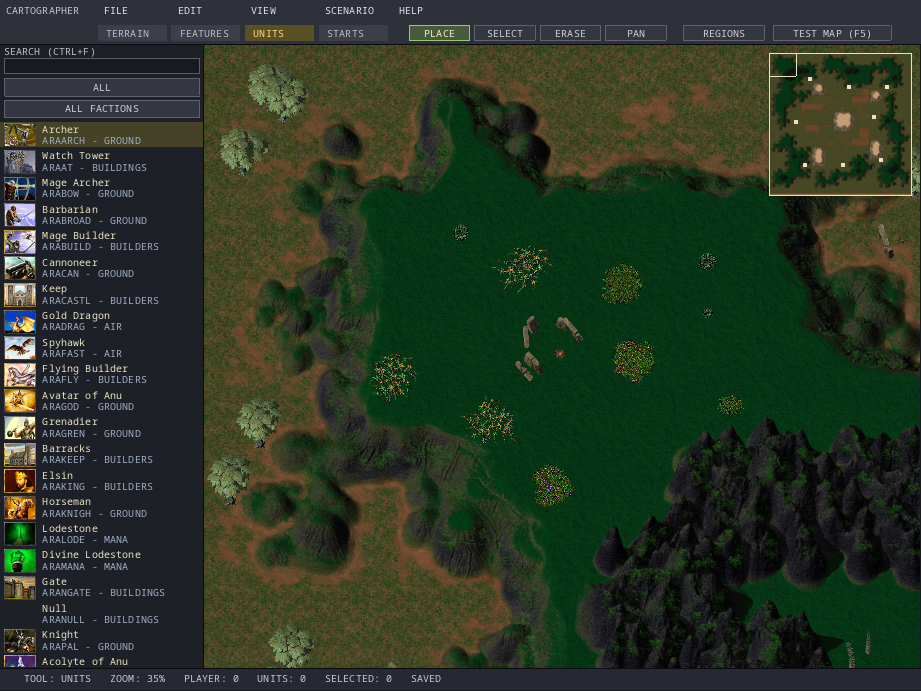
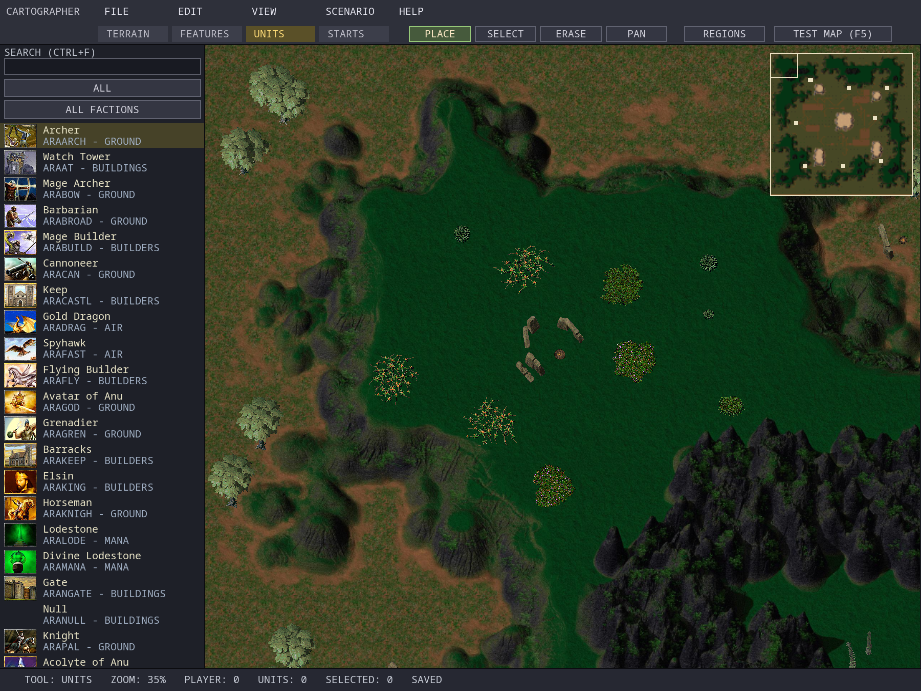
Release 0.7.13 with Cartographer workflow improvements and validated sweeps

diff --git a/README.md b/README.md
@@ -6,7 +6,7 @@
 
 A clean-room C++20 / SDL2 recreation of Cavedog's 1999 fantasy RTS.
 
-[![version](https://img.shields.io/badge/version-0.7.12-c9a227?style=flat-square)](https://github.com/pocketgeek/tak-engine/releases)
+[![version](https://img.shields.io/badge/version-0.7.13-c9a227?style=flat-square)](https://github.com/pocketgeek/tak-engine/releases)
 [![platforms](https://img.shields.io/badge/platforms-Linux%20·%20Windows%20·%20macOS-4c8c4a?style=flat-square)](#download)
 [![license](https://img.shields.io/badge/license-GPL--3.0-6c3483?style=flat-square)](LICENSE)
 
@@ -44,22 +44,47 @@ interface art, and sound directly from its installation.
 assets are included. An installation of *Kingdoms + The Iron Plague*, such as
 the GOG edition, supplies the game data.
 
-## New in 0.7.12
+## New in 0.7.13
 
-<a href="docs/img/diplomacy.jpg"><img src="docs/img/diplomacy.jpg" width="70%" alt="Diplomacy with outgoing mana and chat recipient checkboxes; gift buttons disabled for an ineligible selection"></a>
+<table>
+  <tr><td><a href="docs/img/cartographer.png"><img src="docs/img/cartographer.png" alt="Cartographer with a searchable unit browser, terrain canvas and minimap"></a><br><sub>Cartographer: unit browser and map canvas</sub></td>
+  <td><a href="docs/img/cartographer-model.png"><img src="docs/img/cartographer-model.png" alt="Cartographer's rotatable 3D preview of an Aramon Archer"></a><br><sub>F6 model inspector</sub></td></tr>
+</table>
 
-*Diplomacy test scene after gifting: no eligible units remain selected.*
+- **Cartographer desktop workflow:** packaged editor launchers, remembered game
+  data and window preferences, readable scalable text, menus, searchable map
+  opening and recent files.
+- **Safer editing:** undo/redo, background saves and exports, recovery snapshots,
+  cropping checks, and protection for placed objects during terrain edits.
+- **Finding and placing things:** searchable terrain, unit and feature browsers,
+  thumbnails, group selection/editing, a searchable placed-unit list, named map
+  labels, and rotatable **F6** model previews.
+- **Map and scenario tools:** engine-backed placement/passability overlays,
+  navigable validation results, reproducible random-map previews, editable
+  regions, typed rule operands, and objective templates.
+- **Test Map (F5):** opens an isolated snapshot in the game's normal private
+  lobby, with authored scenario setup shared by client and server. Optional
+  trigger logs help diagnose scenario execution.
+- **Diplomacy:** unit-gifting and mana-sharing controls are hidden for non-allies;
+  chat recipient controls remain available.
 
-- **Diplomacy on D:** all players, eligible-unit gifting, outgoing mana-sharing
-  checkboxes for teammates, and checkboxes choosing who receives your chat.
+Version **0.7.13 uses protocol 198**. Update clients and servers together.
+See the [release notes](docs/release-0.7.13-notes.md),
+[validation report](docs/release-0.7.13-validation.md), and
+[Cartographer guide](docs/user-guide.md#map-editor). The editor preserves unsupported
+scenario data, but full retail mission-runtime parity is not claimed; current
+limits are documented in the guide and [trigger reference](docs/crt-triggers.md).
+
+### Previously in 0.7.12
+
+- **Diplomacy on D:** allied unit gifting, outgoing mana-sharing checkboxes for
+  teammates, and checkboxes choosing who receives your chat.
 - **Hard/Absurd expansion:** earlier expansion builders, reserved mana sites, and
-  new deposits prioritized over nearby upgrades. See [expansion results](docs/ai-expansion-2026-09-29.md).
-- **Memory/resource fixes:** loading fonts, model/editor teardown, stopped-stream
-  buffers, and a terrain reload worker race. See [the memory audit](docs/memory-audit-2026-09-29.md).
+  new deposits prioritized over nearby upgrades.
+- **Memory/resource fixes:** font loading, model/editor teardown, stopped-stream
+  buffers, and a terrain reload worker race.
 
-These changes ship in **0.7.12** and require **protocol 195**. Update clients and
-servers together. See the [release notes](docs/release-0.7.12-notes.md) and
-[full validation report](docs/release-0.7.12-validation.md).
+See the [0.7.12 validation report](docs/release-0.7.12-validation.md).
 
 ### Previously in 0.7.11
 
@@ -120,7 +145,7 @@ Group recall uses one number-key press to select and a second to track.
 
 ## Download
 
-Get **version 0.7.12** from the [latest release](https://github.com/pocketgeek/tak-engine/releases/latest).
+Get **version 0.7.13** from the [latest release](https://github.com/pocketgeek/tak-engine/releases/latest).
 Choose the package for your system:
 
 | System | Package |
@@ -417,8 +442,7 @@ through 250, 500, 1,000, and 2,000. The lobby displays this value without allowi
 it to change.
 
 Use the **same engine build and compatible game data** on every participant.
-Version **0.7.12 uses protocol 195** for directed mana sharing and chat.
-Current checkout builds use **protocol 198** for shared authored-scenario setup
+Version **0.7.13 uses protocol 198** for shared authored-scenario setup
 and preserved map companions; rebuild/update clients and servers together.
 Versions **0.7.10 and 0.7.11 use protocol 194**. Restart/update both client and
 server together. **Released versions 0.7.9 and 0.7.8 use protocol 189** for script-controlled corpse selection

diff --git a/docs/release-0.7.13-validation.md b/docs/release-0.7.13-validation.md
@@ -1,0 +1,102 @@
+# 0.7.13 release validation
+
+Checks performed on 2026-09-29 against source `af7f653`, followed by release
+metadata/documentation changes. Protocol **198** includes explicit authored
+Cartographer playtest setup. Ordinary skirmishes retain their existing setup.
+
+## Local tests
+
+All targets were rebuilt in all five configurations; all 592 CTest checks passed.
+
+| Configuration | Passed |
+| --- | ---: |
+| Release | 116/116 |
+| Optimized Debug (`-O2 -g`) | 120/120 |
+| Unoptimized Debug | 120/120 |
+| Clang Debug | 120/120 |
+| AddressSanitizer + LeakSanitizer | 116/116 |
+
+The sanitizer sweep used dummy SDL video/audio, `SDL_SHUTDOWN_DBUS_ON_QUIT=1`
+and leak detection with no suppressions. This covers the exercised paths, not
+proof that every possible leak is absent.
+
+Python reverse-engineering tools: 123/123. Deterministic-math guard passed.
+Available native GCC/Clang optimization comparisons agreed on golden hash
+`dcef618cd2e4d558`; local ARM legs lack target headers/libraries and were skipped.
+
+All 52 fresh 900-second AI cases completed: five factions × four difficulties ×
+two balances on Ulasem Arena, plus Zhon on generated 8×8 maps with seeds 1, 42
+and 777 at each difficulty with Crusades balance. Every case produced an army;
+Passive issued no Attack/AttackMove commands. The opposing player was idle.
+
+## Offline retail comparisons
+
+No retail game window was launched. All 204 shipped scripts × four controlled
+animation profiles × 1,500 ticks passed (816/816). Death-sound comparisons passed
+500 priority/age/looping cases and 512 visibility/selection/class/free-voice routes.
+Model comparisons passed all 16 piece-flag combinations, both body-cache passes,
+shadow admission, 289 sloped faces, callbacks, all 32 indexed shade rows and
+transparency. These tests do not claim full-frame visual parity.
+
+The first model-harness invocation used an unsupported `--binary` flag and did
+not run the comparison. The corrected positional invocation passed; no engine
+change was needed.
+
+## Network and streaming
+
+Host, peer, referee and late spectator completed 300 matching ticks with authored
+scenario companions transferred and cached separately, hash `504864d2961d486a`.
+The check also covered directed mana/chat routing and spectator privacy.
+A Release `--play-map` client launched a private local server, verified the map
+snapshot and created its explicitly requested persistent trigger log.
+
+Local encrypted streaming upload, reconnect, hostname rejection and key redaction
+passed. No public broadcast was started.
+
+## 16,000-unit smoke workloads
+
+Each workload completed 900 ticks with a per-player cap of 2,000. Match combat
+used eight Absurd AIs and Crusades balance.
+
+| Workload | Ending live units | Observed simulation speed |
+| --- | ---: | ---: |
+| Synthetic movement | 16,000 | 3.438× |
+| Mixed-unit patrol | 16,000 | 1.067× |
+| Destination congestion | 16,000 | 1.366× |
+| AI combat | 14,605 | 1.211× |
+
+These headless runs overlapped builds and other checks. They are smoke results,
+not controlled performance comparisons, rendered FPS or sustained-speed promises.
+
+## Remote multiplayer sweep
+
+All 37 scenarios and 52 client sessions completed on **tak.pgnet.us** and
+**vpn3.pgnet.us**, with no unexpected desyncs or incomplete runs. Each case
+requested five simulated minutes, accepting normal earlier match conclusions.
+Coverage includes both balances, naval maps, fog/start rules, unit caps, stress,
+multiple seated players, live orders, latency/jitter, packet loss and spectators.
+The all-AI spectator stress run reached tick 9,000 with 8,202 surviving units.
+Spectator cases cover flow control, not hash consensus; live-order cases establish
+within-match consensus, not repeatable hashes across runs.
+
+Both negative tests passed: planted tick-900 desync detection and gameplay-data
+mismatch rejection. The temporary override was restored and the sweep servers
+were stopped. Isolated remote servers used Ubuntu GCC 13 optimized Debug
+(`-O2 -g`), matching client source `af7f653`; production servers were not replaced.
+The test binaries retained the 0.7.12 version stamp during this pre-tag sweep.
+Logs: `/tmp/tak-0713-remote.log` and `/tmp/desync-remote-1595394/`.
+
+## Documentation and screenshots
+
+The README describes the 0.7.13 editor changes and protocol 198, with two freshly
+captured and visually inspected Cartographer images: unit browser/map canvas and
+F6 model inspector. Existing game-gallery images remain labeled 0.7.12.
+See [capture notes](img/README.md). The unrelated untracked retail-weapon probe
+was left untouched and is not part of the release.
+
+## Packaging
+
+Linux, Windows, macOS and determinism CI passed for source `af7f653` before
+release preparation. The 0.7.13 tag starts fresh packaging workflows; their final
+publication results will be recorded here after they complete. Native interactive
+Windows/macOS testing was not performed on this Linux host.

diff --git a/docs/release-0.7.13-notes.md b/docs/release-0.7.13-notes.md
@@ -1,0 +1,36 @@
+# TAK Engine 0.7.13
+
+Cartographer now has a complete desktop editing workflow: searchable browsers,
+undo/redo and recovery, background saves, map validation, scenario tools and an
+engine-backed Test Map handoff. Diplomacy hides gifting and mana-sharing controls
+for non-allies.
+
+## Cartographer
+
+- Desktop launchers across the packaged platforms, remembered data location and
+  window preferences, scalable text, menus, recent maps and searchable opening.
+- Background KMP saving and loose export, safe replacement/rollback, periodic
+  recovery snapshots, undo/redo and explicit checks before cropping maps.
+- Searchable terrain/unit/feature browsers, asynchronous thumbnails and art,
+  group editing, named placed-unit lookup and an F6 rotatable model inspector.
+- Engine-backed terrain/placement overlays and navigable map checks, including
+  connectivity, missing resources and initial naval production clearance.
+- Reproducible random-map controls with preview before adoption, and cached,
+  asynchronous terrain/minimap work for large maps.
+- Named regions, typed rule operands, rule clipboard/reordering, objective
+  templates and full rule-text inspection.
+- F5 launches a temporary map snapshot in the normal private client/server lobby.
+  Scenario companions are transferred and verified, with optional local trigger
+  execution logs. Editing and testing do not require saving over the source map.
+
+Full retail mission-runtime parity is not claimed. Unsupported authored records
+are preserved, and current execution limits are documented in the trigger guide.
+The model inspector previews visuals; it is not a full unit-behavior simulator.
+
+## Compatibility
+
+Protocol **198**: update clients and servers together. No new dynamic runtime
+libraries are required. Retail assets remain external and are not distributed.
+
+See the [validation report](https://github.com/pocketgeek/tak-engine/blob/main/docs/release-0.7.13-validation.md)
+and [Cartographer guide](https://github.com/pocketgeek/tak-engine/blob/main/docs/user-guide.md#map-editor).

diff --git a/docs/img/README.md b/docs/img/README.md
@@ -35,3 +35,22 @@ retail archives, extracted assets, and temporary capture files out of Git.
 The army capture uses `TAK_PATROL_PERF=1 TAK_PATROL_PERF_ZOOM=0.9`,
 `--time 1 --nofog`, and the same renderer/preferences as the other game shots.
 The 16,000 count is for the entire fixture, not the number visible in the image.
+
+## Cartographer screenshots for 0.7.13
+
+`cartographer.png` and `cartographer-model.png` were freshly captured on
+2026-09-29 from the 0.7.13 release source (`af7f653`, before the version-only
+release stamp). Both are unmodified 921 × 691 PNG captures of the actual editor.
+The map is Ulasem Arena using the user's retail data.
+
+- `cartographer.png`: Units browser, map canvas, feature art and minimap. A
+  scratch capture harness sends the same Tab events as the keyboard and waits
+  for background art/minimap work before capturing the live editor renderer.
+- `cartographer-model.png`: F6 model inspector showing an Aramon Archer from
+  the unit browser. Captured through the editor's model workflow test after
+  asynchronous model/texture loading. This is a visual inspector, not a combat
+  scene. The capture uses SDL's dummy video driver/software renderer.
+
+Both images were visually inspected. No asset geometry, units or UI were added
+after capture. The 0.7.12 game gallery above remains representative and has not
+been relabeled as newly captured.
